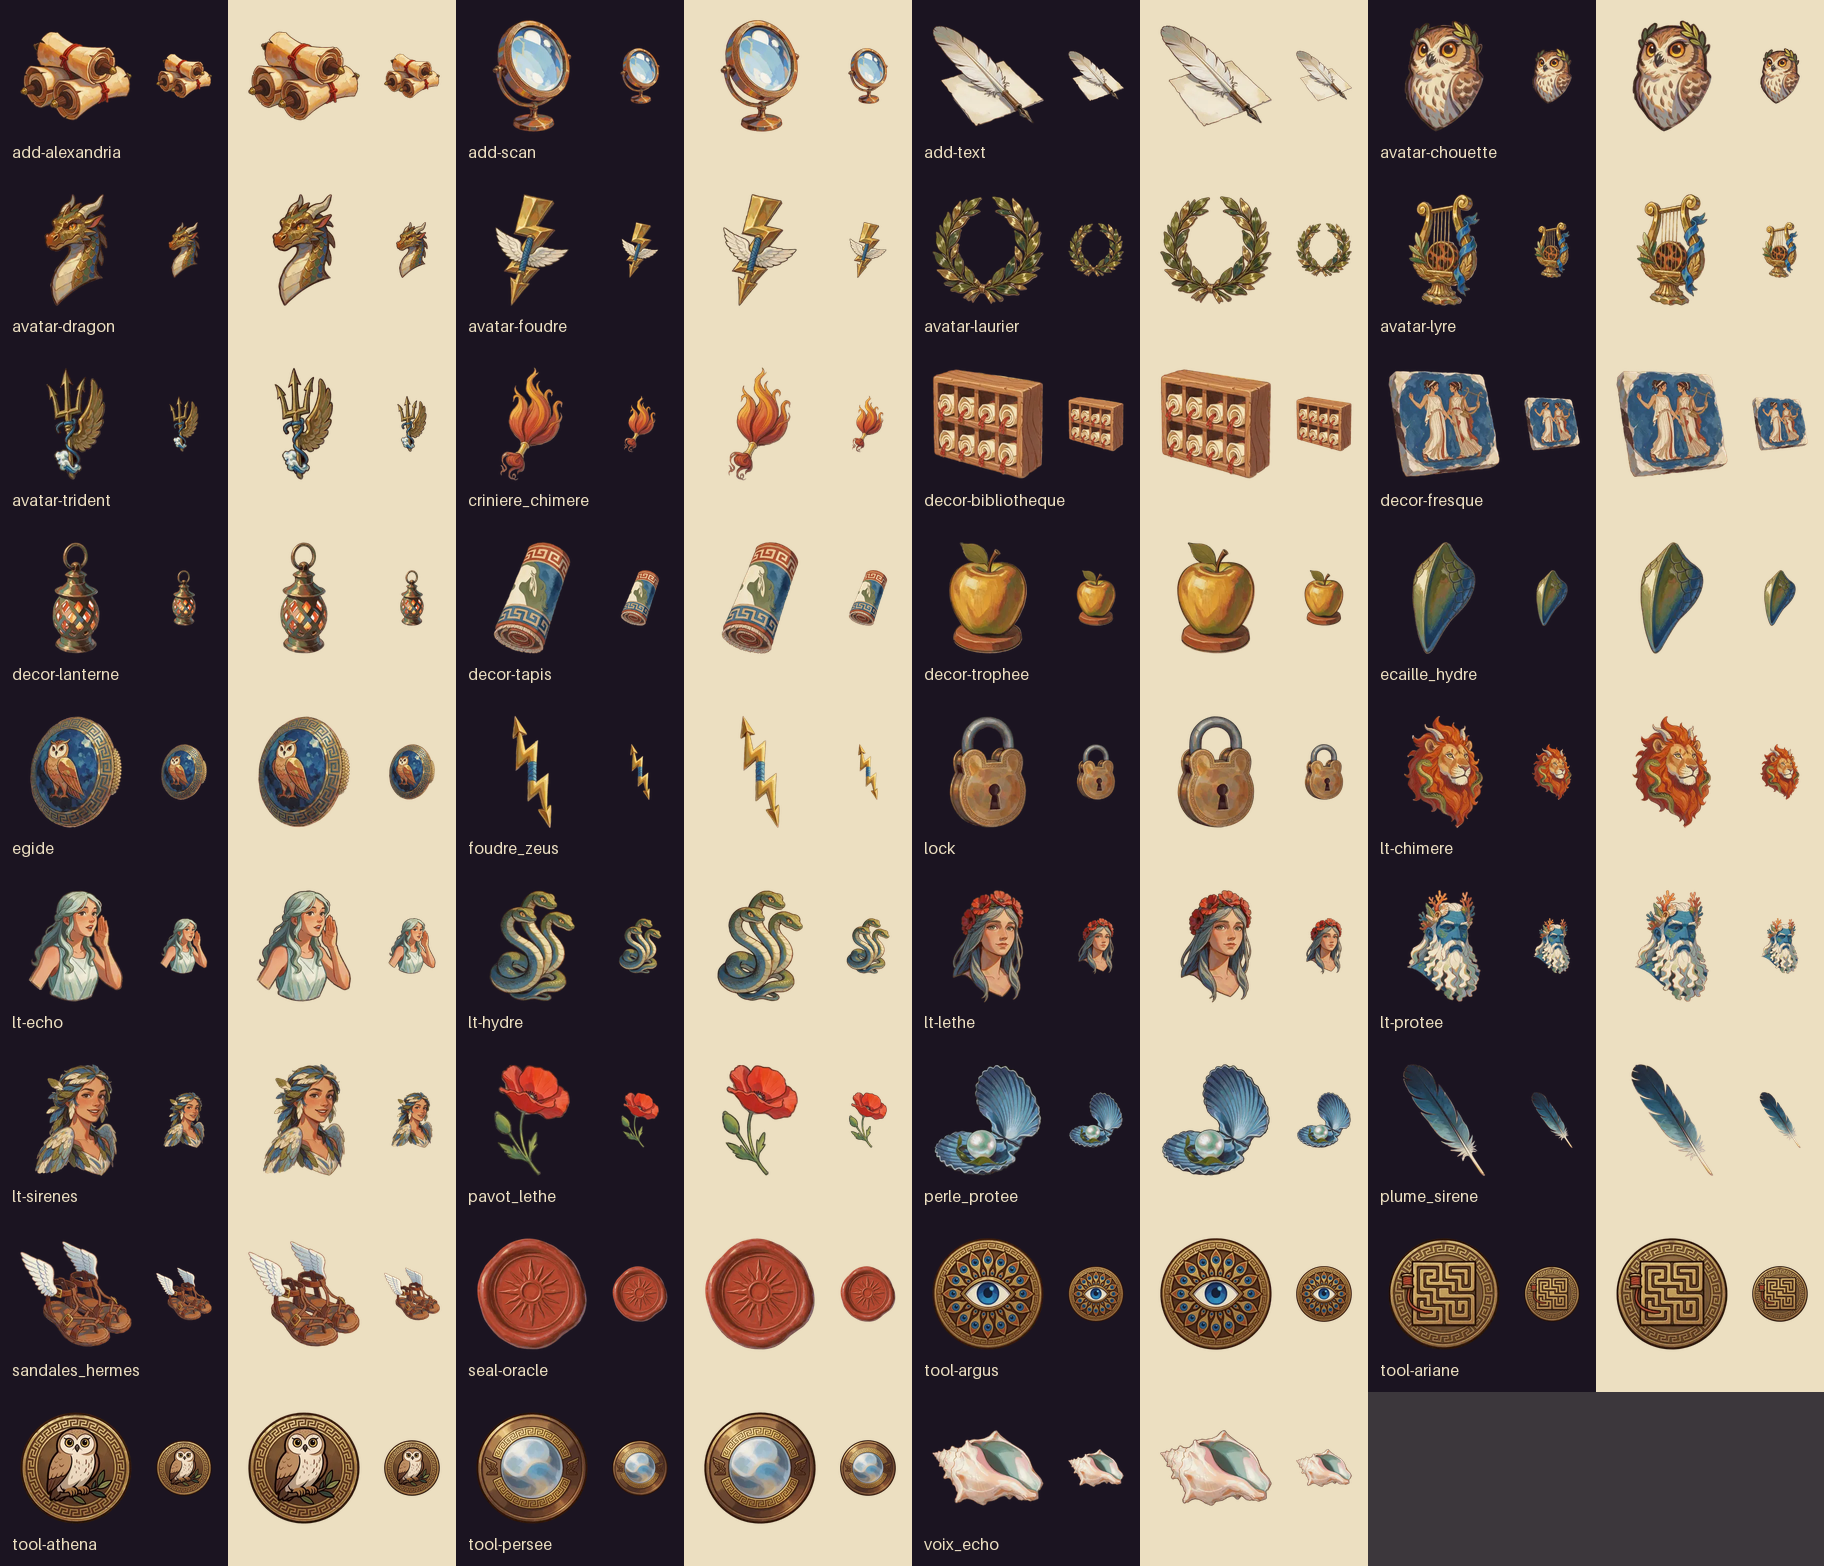
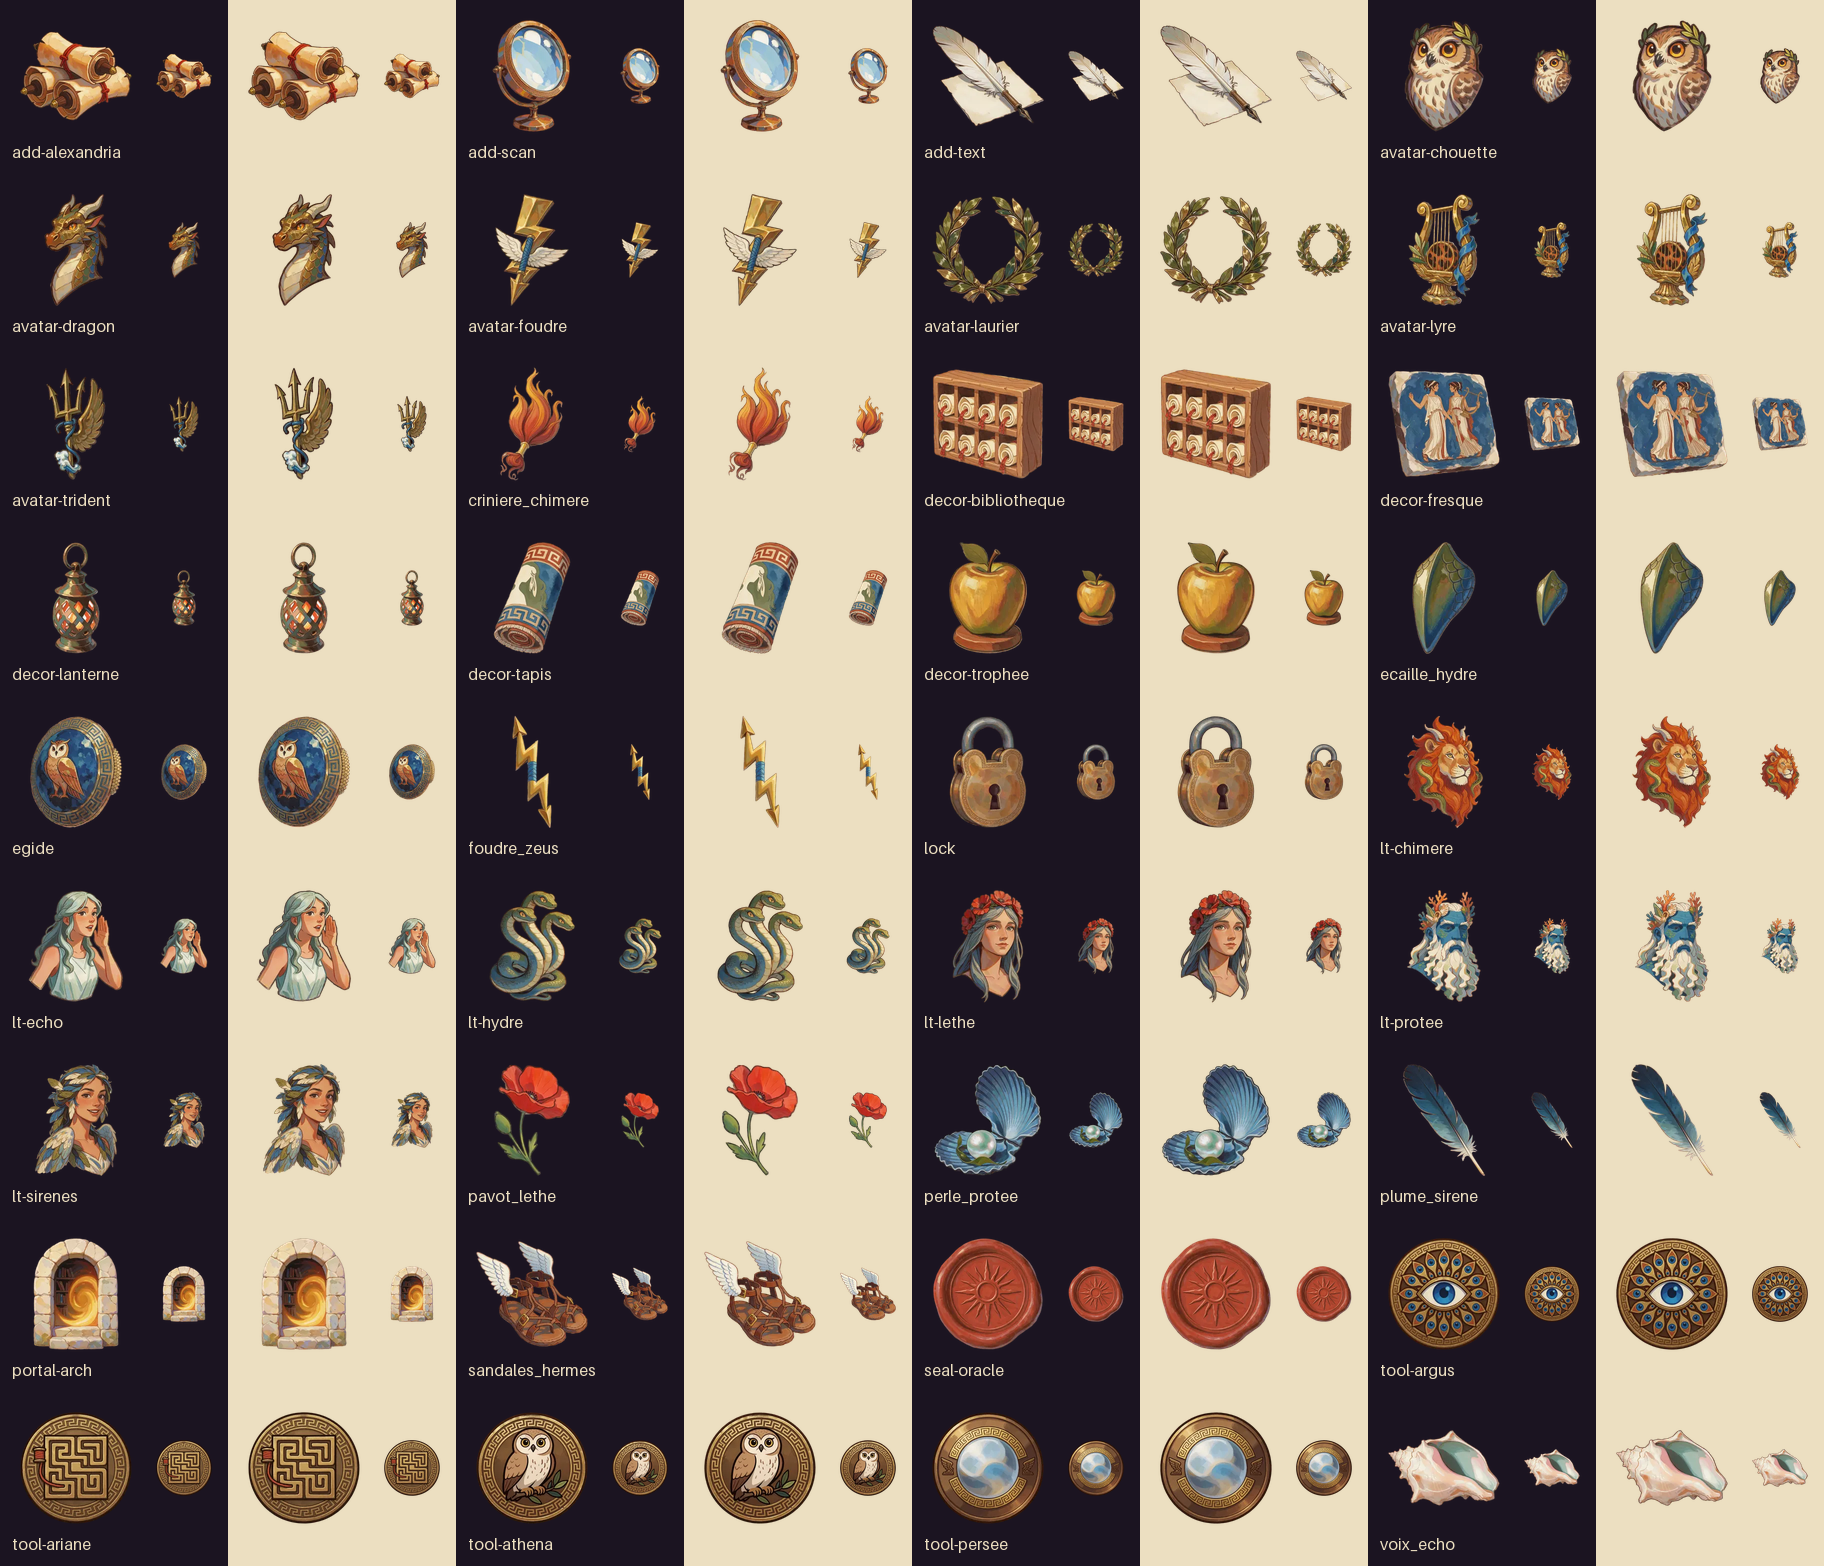
Immersion wave: parchment grain, wood board, rolled scroll and portal-arch art for the overlays
Parchment vignetted on all three tried seeds (903-905); running them through the
seamless-tile pass turned the corner darkening into a repeating dark-blotch grid,
so it stays a CSS gradient plus inline SVG grain (Ruling W3, Task 2) instead of a
generated image. Wood board and the rolled-scroll cut-out shipped on the first
try; the portal-arch icon (playability finding #20) shipped on the first try too.

Changed region(s): [[0.0, 0.7663, 1.0, 1.0]]

diff --git a/web/src/lib/world/art.test.ts b/web/src/lib/world/art.test.ts
@@ -7,6 +7,7 @@ import {
   AVATAR_ICONS,
   LIEUTENANT_ICONS,
   MARK_ICONS,
+  PLACE_ICONS,
   RELIC_OF,
   REWARD_ICONS,
   TOOL_ICONS,
@@ -56,9 +57,23 @@ describe('art map', () => {
     });
   });
 
-  it('maps the 35 painted icons, each within its own budget (UI3 Ruling A12)', () => {
+  it('ships the overlay textures and objects within their budgets (immersion wave W3)', () => {
+    // Parchment vignetted on all three tried seeds (903-905): the seamless-tile pass turned the
+    // corner darkening into a visible repeating blotch grid, so it stays a CSS/SVG fallback
+    // (Ruling W3) and has no `ART.textures.parchment` key.
+    expect(ART.textures).toEqual({
+      marble: '/art/textures/marble.webp',
+      woodBoard: '/art/textures/wood_board.webp',
+    });
+    expect(ART.ui).toEqual({ scrollRolled: '/art/ui/scroll_rolled.webp' });
+    for (const p of flat(ART.textures)) expect(statSync('public' + p).size, p).toBeLessThanOrEqual(150 * 1024);
+    for (const p of flat(ART.ui)) expect(statSync('public' + p).size, p).toBeLessThanOrEqual(60 * 1024);
+    expect(PLACE_ICONS).toEqual({ portal: '/art/icons/portal-arch.webp' });
+  });
+
+  it('maps the 36 painted icons, each within its own budget (UI3 Ruling A12)', () => {
     const icons = flat(ART.icons);
-    expect(icons).toHaveLength(35);
+    expect(icons).toHaveLength(36);
     for (const p of icons) expect(statSync('public' + p).size, p).toBeLessThanOrEqual(60 * 1024);
     expect(icons.reduce((s, p) => s + statSync('public' + p).size, 0)).toBeLessThanOrEqual(1.5 * 1024 * 1024);
     const onDisk = readdirSync('public/art/icons').filter((f) => f.endsWith('.webp')).map((f) => `/art/icons/${f}`);

diff --git a/web/src/lib/world/art.ts b/web/src/lib/world/art.ts
@@ -67,6 +67,11 @@ export const MARK_ICONS = {
   lock: icon('lock'),
 } as const;
 
+/** Place plaques that carry a painted icon but are not one of the three ways in (UI3a playability #20). */
+export const PLACE_ICONS = {
+  portal: icon('portal-arch'),
+} as const;
+
 /** The relic each lieutenant leaves when neutralised (catalog.py LIEUTENANTS[*].relic). */
 export const RELIC_OF: Record<LieutenantKey, string> = {
   hydre: 'ecaille_hydre',
@@ -120,6 +125,17 @@ export const ART = {
     tools: TOOL_ICONS,
     add: ADD_ICONS,
     marks: MARK_ICONS,
+    places: PLACE_ICONS,
+  },
+  // Immersion wave (Ruling W3): overlay surfaces and objects; CSS reads the textures as tokens (kit.css).
+  // No `parchment` key: all three tried seeds (903-905) vignetted (docs/art/style-guide.md §5), so the
+  // parchment stays a CSS gradient plus inline SVG grain (Task 2).
+  textures: {
+    marble: '/art/textures/marble.webp',
+    woodBoard: '/art/textures/wood_board.webp',
+  },
+  ui: {
+    scrollRolled: '/art/ui/scroll_rolled.webp',
   },
   scenes: {
     camp: '/art/scenes/camp.webp',

diff --git a/tools/art/uiart.py b/tools/art/uiart.py
@@ -1,0 +1,104 @@
+"""Export the overlay art (immersion wave, Ruling W3) to web/public/art.
+
+    python tools/art/uiart.py webp    # assets/art/... -> web/public/art/... (TABLE below)
+    python tools/art/uiart.py sheet   # docs/art/ui-art-sheet.png: each file on parchment and dark wood
+
+A `tile` entry is made seamless first: shifted by half its size so the old
+edges meet in the middle, then the original is blended back over a feathered
+cross, which hides the seam without a visible mirror. Quality starts at 82 and
+steps down until the file is under its budget (floor 50); a file that still
+does not fit fails loudly instead of shipping over budget.
+
+Runs inside the throwaway Docker container (tools/art/run_docker.sh uiart).
+Requires: pillow
+"""
+import argparse
+import io
+from pathlib import Path
+
+from PIL import Image, ImageDraw, ImageFilter
+
+WEB = Path("web/public/art")
+# source -> (published path, long side in px, budget in KB, tile)
+TABLE = {
+    "assets/art/textures/parchment.png": ("textures/parchment.webp", 512, 90, True),
+    "assets/art/textures/wood_board.png": ("textures/wood_board.webp", 1280, 150, False),
+    "assets/art/ui/scroll_rolled_cut.png": ("ui/scroll_rolled.webp", 640, 45, False),
+}
+
+
+def seamless(img: Image.Image) -> Image.Image:
+    w, h = img.size
+    hw, hh = w // 2, h // 2
+    shifted = Image.new(img.mode, (w, h))
+    shifted.paste(img.crop((hw, hh, w, h)), (0, 0))
+    shifted.paste(img.crop((0, hh, hw, h)), (w - hw, 0))
+    shifted.paste(img.crop((hw, 0, w, hh)), (0, h - hh))
+    shifted.paste(img.crop((0, 0, hw, hh)), (w - hw, h - hh))
+    # `shifted` tiles seamlessly but has a seam cross in its middle; cover that cross with the
+    # original (whose middle is seamless), feathered so no edge shows.
+    mask = Image.new("L", (w, h), 0)
+    d = ImageDraw.Draw(mask)
+    band = max(8, w // 10)
+    d.rectangle((hw - band, 0, hw + band, h), fill=255)
+    d.rectangle((0, hh - band, w, hh + band), fill=255)
+    mask = mask.filter(ImageFilter.GaussianBlur(band / 2))
+    return Image.composite(img, shifted, mask)
+
+
+def export(src: Path, dst: Path, max_px: int, max_kb: int, tile: bool) -> None:
+    img = Image.open(src)
+    img = img.convert("RGBA" if "A" in img.getbands() else "RGB")
+    if tile:
+        img = seamless(img)
+    scale = max_px / max(img.size)
+    if scale < 1:
+        img = img.resize((round(img.width * scale), round(img.height * scale)), Image.LANCZOS)
+    dst.parent.mkdir(parents=True, exist_ok=True)
+    for q in range(82, 49, -4):
+        buf = io.BytesIO()
+        img.save(buf, "WEBP", quality=q, method=6)
+        if buf.tell() <= max_kb * 1024:
+            dst.write_bytes(buf.getvalue())
+            print(f"{dst}  {img.width}x{img.height}  q{q}  {buf.tell() / 1024:.0f} KiB")
+            return
+    raise SystemExit(f"{dst}: over {max_kb} KB even at quality 50")
+
+
+def sheet() -> None:
+    rows = []
+    for _, (rel, _px, _kb, tile) in TABLE.items():
+        p = WEB / rel
+        if not p.exists():
+            continue
+        img = Image.open(p).convert("RGBA")
+        if tile:  # a 2x2 repeat shows any seam
+            rep = Image.new("RGBA", (img.width * 2, img.height * 2))
+            for x in (0, img.width):
+                for y in (0, img.height):
+                    rep.paste(img, (x, y))
+            img = rep
+        rows.append(img)
+    out = Image.new("RGB", (1100, 340 * max(1, len(rows))), (243, 230, 200))
+    for i, img in enumerate(rows):
+        img.thumbnail((500, 320))
+        for x, ground in ((10, (243, 230, 200)), (560, (59, 39, 21))):
+            cell = Image.new("RGB", (520, 330), ground)
+            cell.paste(img, (10, 5), img)
+            out.paste(cell, (x, 340 * i + 5))
+    out.save("docs/art/ui-art-sheet.png")
+    print("docs/art/ui-art-sheet.png")
+
+
+if __name__ == "__main__":
+    ap = argparse.ArgumentParser(description=__doc__)
+    ap.add_argument("mode", choices=["webp", "sheet"])
+    a = ap.parse_args()
+    if a.mode == "webp":
+        for src, (rel, px, kb, tile) in TABLE.items():
+            if Path(src).exists():
+                export(Path(src), WEB / rel, px, kb, tile)
+            else:
+                print(f"skip {src} (not generated)")
+    else:
+        sheet()

diff --git a/docs/art/style-guide.md b/docs/art/style-guide.md
@@ -202,6 +202,38 @@ Prompt tips from this batch:
 Not yet made (candidates for a later batch): the Muses, per-stage dragon colour variants, a
 title/hero banner 1536×640. Player avatars and small item icons are done (see Icons below).
 
+### Immersion wave overlay art (UI3a Task 1, 2026-09-25)
+
+New surfaces and objects for the overlay panels (playability findings #1 scroll/table overlay
+variants, #20 portal icon): a wood board (table overlay), a rolled scroll (shelves, Pythia panels),
+and the portal-arch icon (Alexandria portal plaque). Style `discorde-texture` for the wood,
+`discorde-inked-clean` for the scroll and the icon, `--vscale 1.0`, 8 steps.
+
+**Seeds**: wood_board 911, scroll_rolled 921 (cut out), portal-arch 1060 (cut out, seeds table
+below). Parchment was tried at seeds 903, 904 and 905 and rejected all three times (see below). 6
+generations in total for this task (3 kept, 3 rejected parchment tries).
+
+Prompt tips from this batch:
+- **The parchment vignette from UI2 was not fixed by "the four edges exactly as light as the
+  centre" plus `(vignette:-3) (dark edges:-3) (burnt edges:-3)`.** All three seeds (903, 904, 905)
+  still measured 8-11 % darker at the corners than at the centre (checked with Pillow, not just by
+  eye — seed 903 was clearly the worst and was rejected outright; 904 and 905 were closer calls).
+  The real test isn't the single tile: run it through the `seamless()` quadrant-shift
+  `tools/art/uiart.py` uses and tile the *result* 2×2. Because the shift relocates each corner to
+  the new tile's centre, a vignetted source turns into a **repeating grid of dark blotches** at
+  the tile centres and corner-junctions — worse than the flat seam the pass exists to hide. Both
+  904 and 905 failed that check, so parchment stays a CSS gradient plus inline SVG grain (Task 2's
+  `kit.css`), not a generated image (Ruling W3).
+- The wood board (four wide planks, `(vignette:-3) (honeycomb:-3) (nails:-2)`) worked on the first
+  try and needed no regeneration: it reads clearly as planks with knots and dark plank seams. Its
+  average colour (`#5c3d2f`) is lighter than the `#3b2715` target, but the contrast ratio against
+  the `--bronze-ink` text colour (`#fff7e6`) is already ≈9:1 (WCAG AAA), so a CSS `--wood-dark`
+  overlay is a polish option here, not a requirement.
+- The rolled-scroll prompt needed "blank" plus `(writing:-3) (seal:-3)` to keep the parchment
+  surface empty (the wax seal and any title text are drawn in CSS/HTML on top, so they can't be
+  baked in and broken by the cut-out); both gold-capped knobs and the wound cord came through
+  clean on the first try, and the cut-out has no white rim on a dark background.
+
 ### Icons (2026-09-24)
 
 Small painted icons that replace the emoji the UI used as markers (see `docs/art/icon-inventory.md`
@@ -221,10 +253,11 @@ margin, all under 20 KB). Contact sheet at 128 and 64 px on dark and parchment:
 | Lieutenant glyphs | lt-hydre 1042, lt-echo 1016, lt-chimere 1045, lt-protee 1018, lt-sirenes 1019, lt-lethe 1046 |
 | Add menu | add-text 1025 (quill on parchment), add-scan 1050 (bronze lens on a stand; a first box-camera try, 1033, was anachronistic), add-alexandria 1047 (stacked scrolls) |
 | Misc | seal-oracle 1034, lock 1048 |
+| Place icon (UI3a Task 1, playability #20) | portal-arch 1060 (a stone archway with a golden portal swirl, for the Alexandria portal plaque) |
 | Home-screen icon | app-apple 1049 → `web/public/icons/{icon-192,icon-512,apple-touch-icon,icon-maskable-512}.png` |
 | Reused, no generation | tool-persee, tool-athena, tool-ariane, tool-argus = the existing `emblems/*_cut.png` medallions, which read fine at 64 px |
 
-`tint:*` rewards stay CSS swatches (the tinted egg). 43 generations in total (35 icons + 8 redos).
+`tint:*` rewards stay CSS swatches (the tinted egg). 44 generations in total (36 icons + 8 redos).
 The app icon is the painted apple on the terracotta ground (`#C0623B`, a soft lighter centre),
 at 74 % of the side and 56 % for the maskable one. It replaces the flat SVG apple; the old
 `npm run icons` script (`web/scripts/make-icons.mjs`) has been removed (UI3a Task 6) so it can no

diff --git a/docs/art/scenes.md b/docs/art/scenes.md
@@ -140,8 +140,23 @@ No interactive landmarks. They all share the same layout for the battle stage:
 | Codex on a lectern | `assets/art/props/codex_lectern.png` | `web/public/art/props/codex_lectern_cut.webp` | 768×1344 |
 | Trophy shelf | `assets/art/props/trophy_shelf.png` | `web/public/art/props/trophy_shelf_cut.webp` | 1344×768 |
 | Marble texture (tile) | `assets/art/textures/marble.png` | `web/public/art/textures/marble.webp` (28 KB) | 1024² |
+| Wood board (table overlay) | `assets/art/textures/wood_board.png` | `web/public/art/textures/wood_board.webp` (50 KB) | 1344×768 → 1280×731 |
+| Rolled scroll (cut-out) | `assets/art/ui/scroll_rolled.png` + `_cut.png` | `web/public/art/ui/scroll_rolled.webp` (20 KB) | 1344×768 → 640×366 |
+| Portal-arch icon (cut-out) | `assets/art/icons/portal-arch.png` + `_cut.png` | `web/public/art/icons/portal-arch.webp` (10 KB) | 1024² → 256² |
 
 The marble tile is "seamless-ish": soft veins with no hard border, which is fine behind a plaque. No
-parchment or bronze texture is shipped. The generated parchment had a darker vignette edge, so it
-wouldn't tile, and the bronze came out as a honeycomb pattern. CSS gradients or noise do better for
-both.
+bronze texture is shipped: it came out as a honeycomb pattern, so CSS gradients or noise do better.
+The wood board and the scroll cut-out shipped from the immersion wave (UI3a Task 1, playability
+findings #1 and #20): the wood board is used as-is behind table-style overlay panels (a `--wood-dark`
+CSS overlay darkens it further if needed), and the scroll is the rolled-scroll cut-out for the shelves
+and Pythia panels. Export with `tools/art/run_docker.sh uiart webp` then `uiart sheet`
+(`tools/art/uiart.py`); the `tile` entries go through a `seamless()` pass first (quadrant-shift plus a
+feathered cross blend) so a repeat shows no seam — see `docs/art/ui-art-sheet.png`.
+
+Parchment is **not** shipped as an image: three seeds (903, 904, 905) were tried and all three
+vignetted (the corners read up to ~10% darker than the centre). Raw 2×2 tiling showed the usual
+corner-meets-corner seam, and running the *same* seeds through the `seamless()` pass (meant to fix
+exactly that) only relocated the dark corners to the tile's centre and to the four-corner junctions,
+producing a clearly visible repeating diamond of dark blotches — worse than the flat seam it was
+built to hide. Per Ruling W3, the parchment overlay stays a CSS gradient plus an inline SVG grain
+(Task 2) instead.
